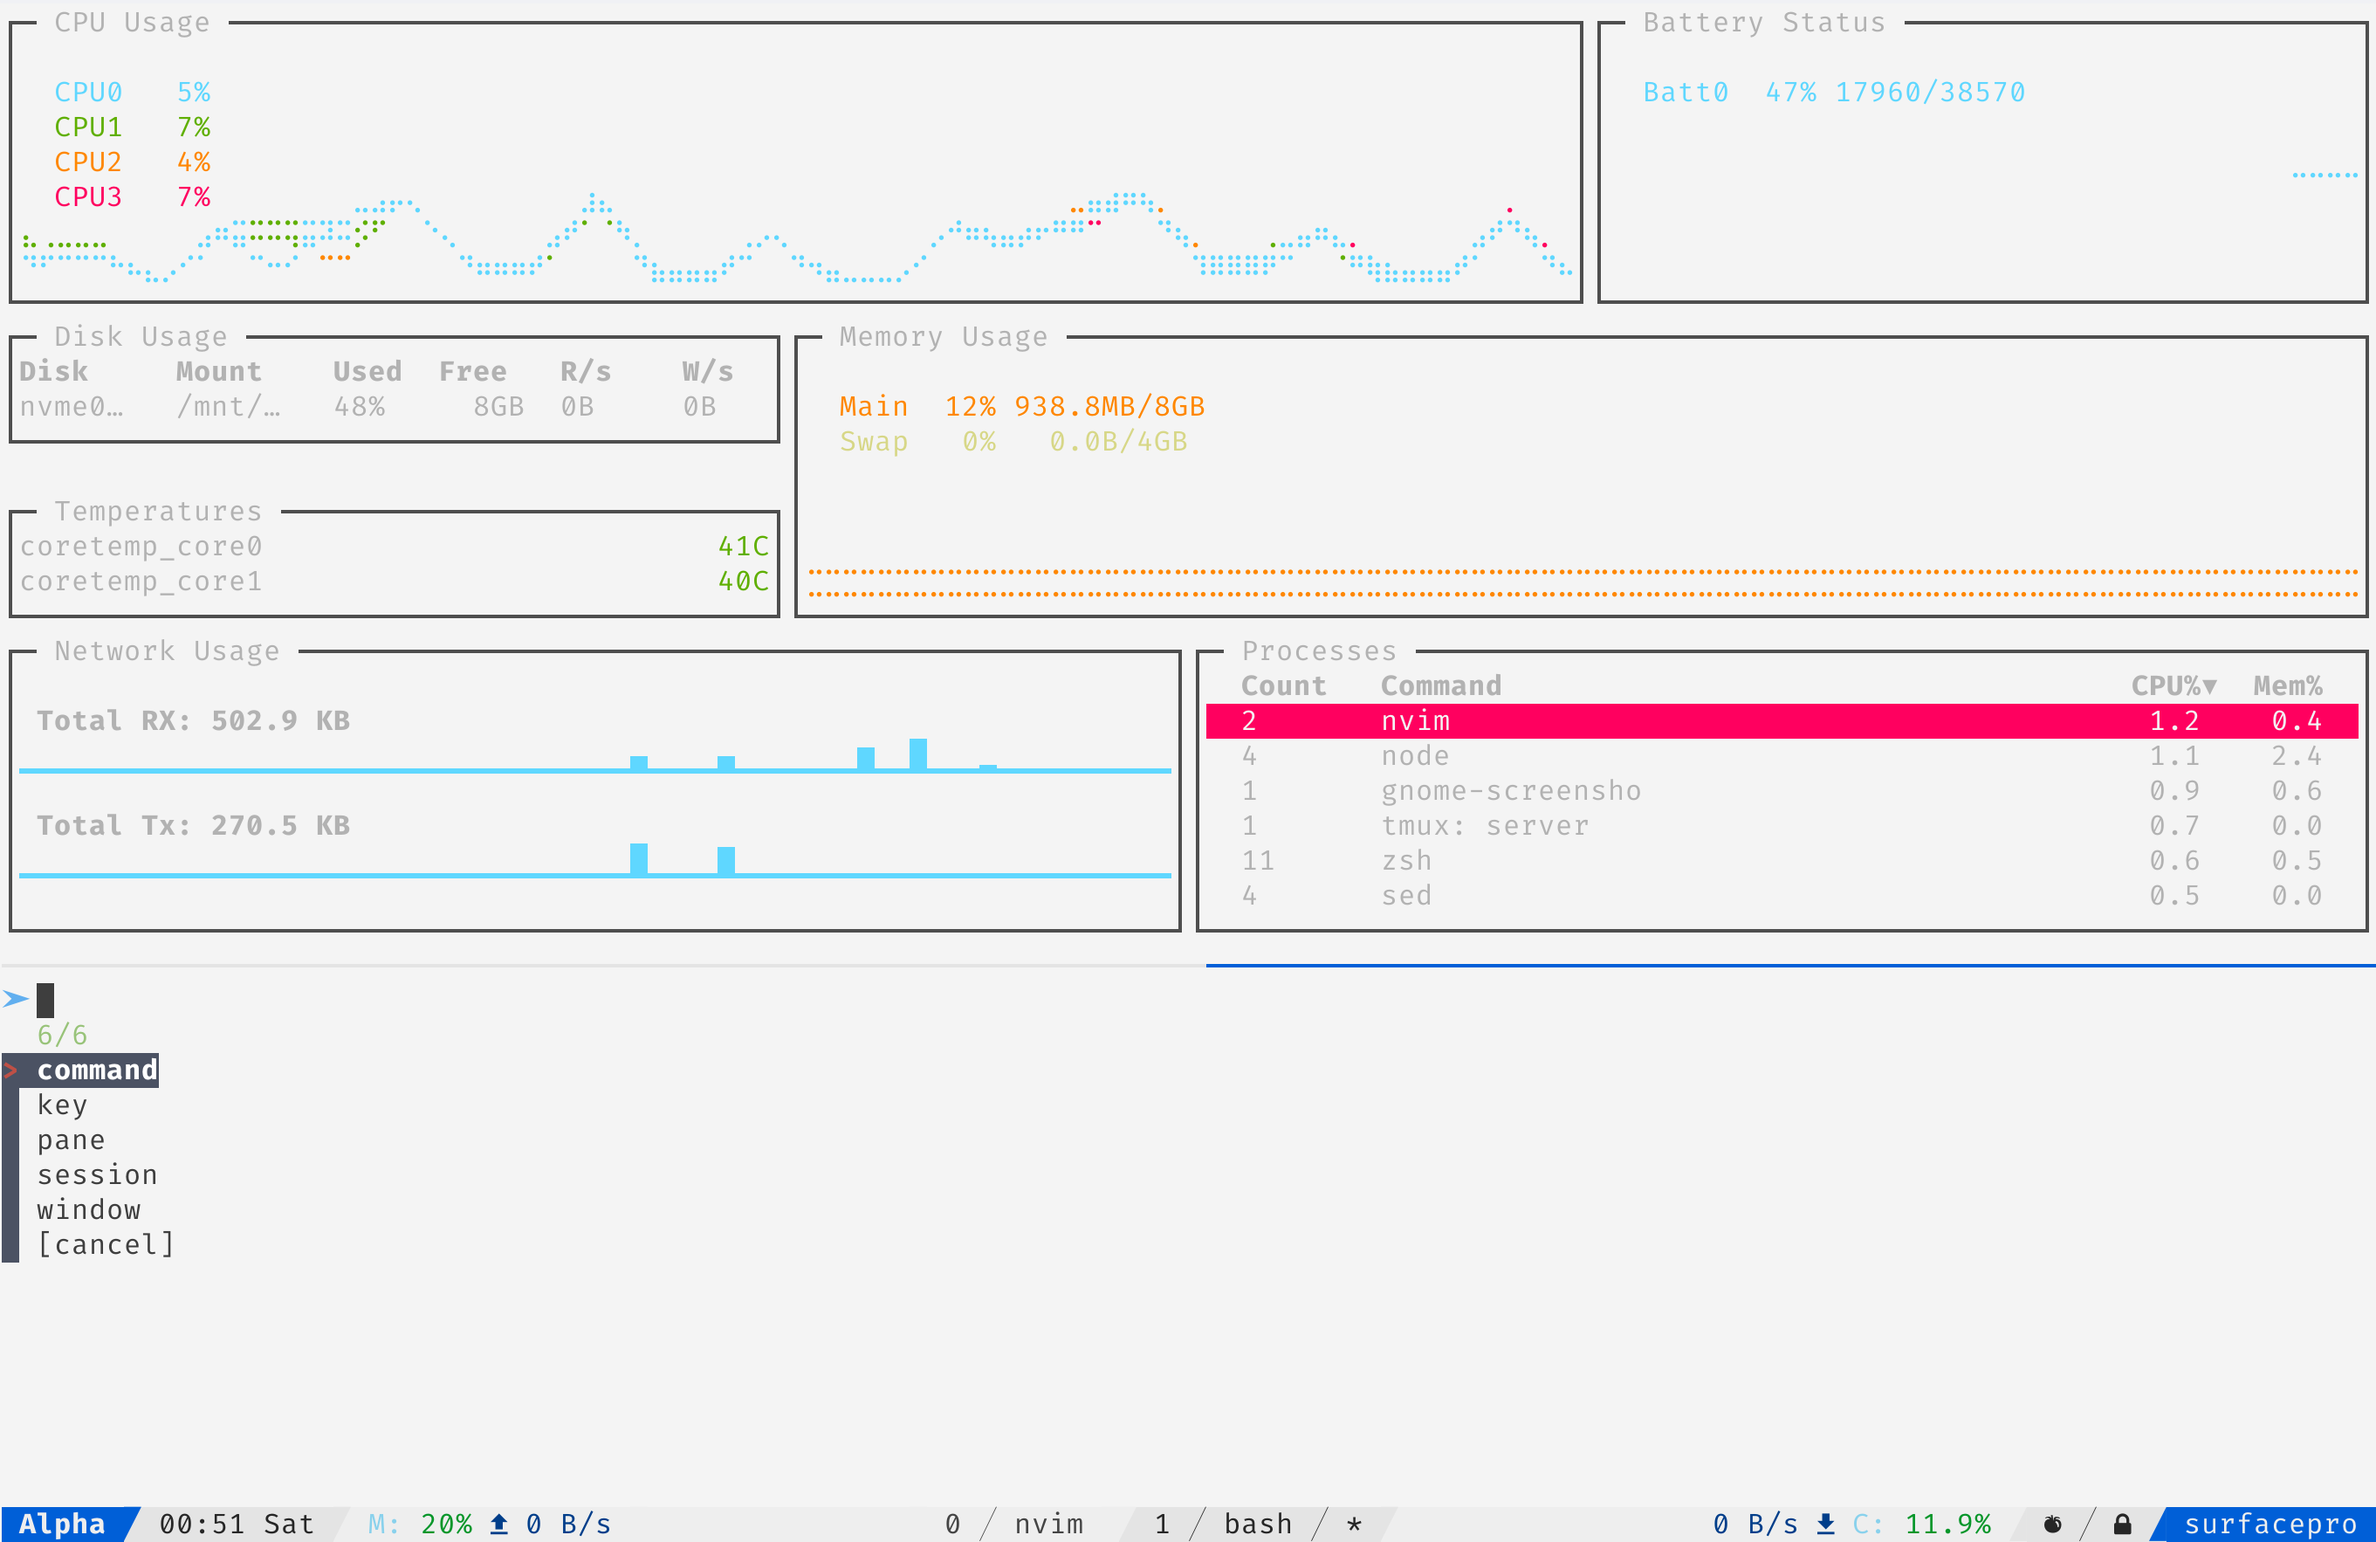
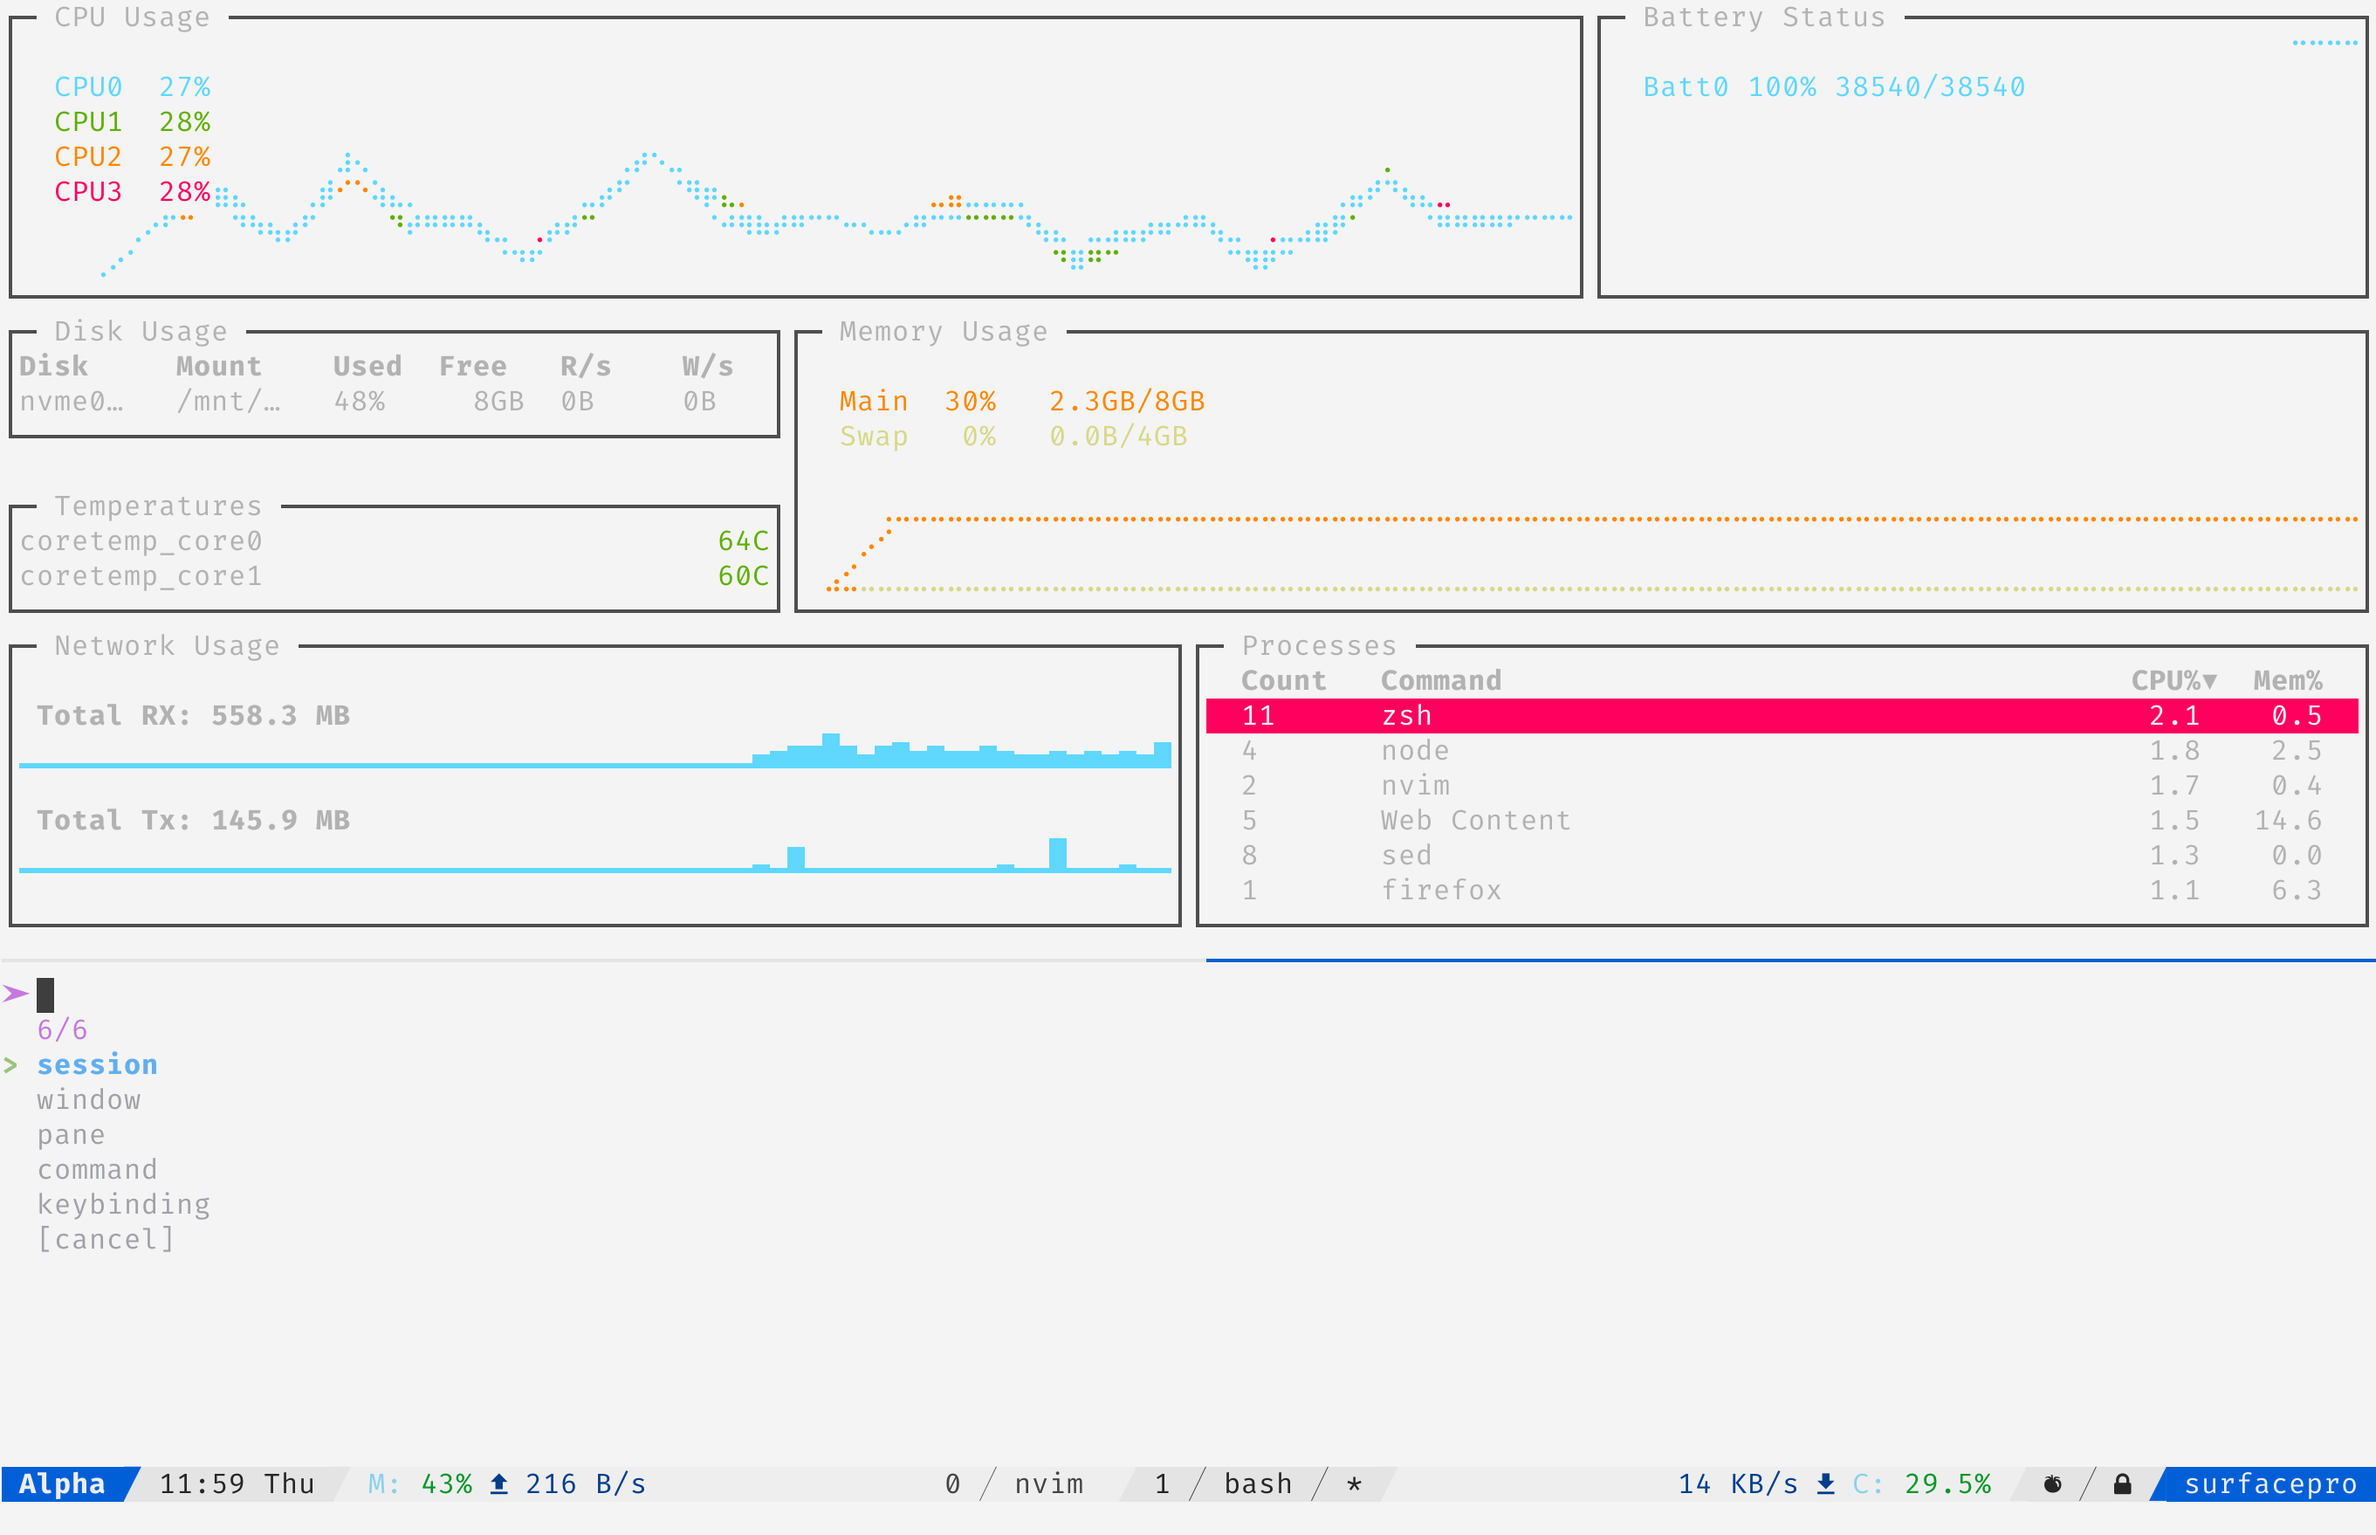
feat: fzf header

diff --git a/README.md b/README.md
@@ -7,7 +7,7 @@
 - Manage panes ( switch, break, join*, swap, layout, kill* ).
 - Multiple selection ( support for actions marked by * ).
 - Search commands and append to command prompt.
-- Search keys and execute.
+- Search key bindings and execute.
 
 # Installation
 
